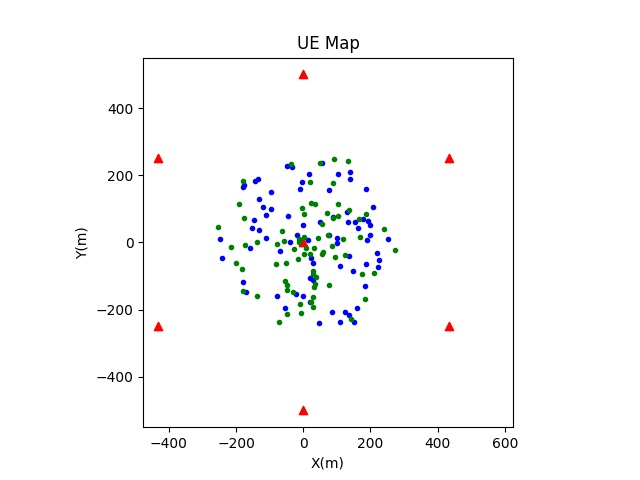
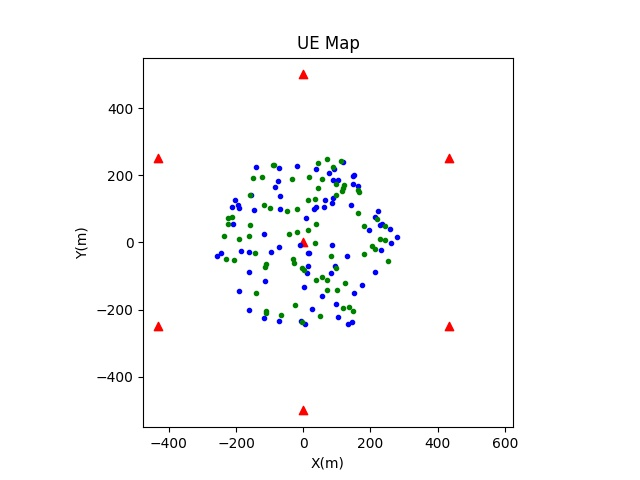
add prob2

Changed region(s): [[0.3125, 0.3125, 0.625, 0.6875]]

diff --git a/src/hw5/prob2.py b/src/hw5/prob2.py
@@ -1,6 +1,6 @@
 import matplotlib.pyplot as plt
 from random import randint, uniform
-from math import sqrt, log10, log2
+from math import sqrt, log10, log2, pi, cos, sin
 from numpy import random
 
 
@@ -20,6 +20,8 @@ NEG_SQRT_3 = (-1) * sqrt(3)
 NEG_SQRT_3_div_2 = (-1) * (sqrt(3) / 2)
 UE_NUM = 75
 SCALE = 250 / SQRT_3_div_2
+PAIR_DIS = 200
+
 
 BS_BUFFER_SIZE = 15E6
 UE_BUFFER_SIZE = 0.5E6
@@ -108,9 +110,7 @@ class Bs():
         for i in range(UE_NUM):
             ue = Ue(self)
             self._ue.append(ue)
-            ue2 = Ue(self, 1, ue)
-            while sqrt((ue.x - ue2.x) ** 2 + (ue.y - ue2.y) ** 2) > 200:
-                ue2 = Ue(self, 1, ue) #add Tx pair
+            ue2 = Ue(self, 1, ue, ue.x, ue.y)
             self._ue.append(ue2)
             ue.set_pair(ue2)
 
@@ -123,8 +123,12 @@ class Bs():
 
 
 class Ue():
-    def __init__(self, bs, is_recv=0, pair=None):
-        self._x, self._y = gen_loc()
+    def __init__(self, bs, is_recv=0, pair=None, gen_x=None, gen_y=None):
+        if gen_x is None or gen_y is None:
+            self._x, self._y = gen_loc()
+        else:
+            self._x, self._y = gen_loc_with_initial(gen_x, gen_y)
+        self._dis = sqrt(self._x ** 2 + self._y ** 2)
         self._x += bs.x
         self._y += bs.y
         self._bs = bs
@@ -177,6 +181,19 @@ def gen_loc():
            (NEG_SQRT_3 * x + y >= NEG_SQRT_3):
             return x * SCALE, y * SCALE
 
+def gen_loc_with_initial(gen_x, gen_y):
+    while True:
+        theta = uniform(0, 2 * pi)
+        dis = uniform(0, PAIR_DIS)
+        x = gen_x/SCALE + dis/SCALE * cos(theta)
+        y = gen_y/SCALE + dis/SCALE * sin(theta)
+        if (y <= SQRT_3_div_2) and \
+           (y >= NEG_SQRT_3_div_2) and \
+           (SQRT_3 * x + y <= SQRT_3) and \
+           (SQRT_3 * x + y >= NEG_SQRT_3) and \
+           (NEG_SQRT_3 * x + y <= SQRT_3) and \
+           (NEG_SQRT_3 * x + y >= NEG_SQRT_3):
+            return x * SCALE, y * SCALE
 
 def db_to_int(n):
     return 10 ** (n / 10)
@@ -216,16 +233,17 @@ if __name__ == "__main__":
     clus = Cluster(0, 0, ma)
     cent_bs = clus.bs[0]
     cent_bs.gen_ue()
-    d2d_p = 0
     for ue in cent_bs.ue:
         if ue._is_recv == 1:
-            dis = sqrt((ue.x - ue._pair.x)**2+(ue.y - ue._pair.y)**2)
-            d2d_p += db_to_int(up_rxp_d2d(dis))
-    for ue in cent_bs.ue:
-        dis = sqrt((ue.x-ue._pair.x)**2+(ue.y-ue._pair.y)**2)
-        up_p = up_rxp_d2d(dis)
-        ue._d2d_rate = shannon((Sinr(up_p, d2d_p - db_to_int(up_p))))
-        print(ue._d2d_rate)
+            d2d_p = 0
+            for tx_ue in cent_bs.ue:
+                if tx_ue._is_recv == 0:
+                    dis = sqrt((ue.x - tx_ue.x) ** 2 + (ue.y - tx_ue.y) ** 2)
+                    d2d_p += db_to_int(up_rxp_d2d(dis))
+            dis = sqrt((ue.x - ue._pair.x) ** 2 + (ue.y - ue._pair.y) ** 2)
+            up_p = up_rxp_d2d(dis)
+            ue._d2d_rate = shannon((Sinr(up_p, d2d_p - db_to_int(up_p))))
+            ue._pair._d2d_rate = shannon((Sinr(up_p, d2d_p - db_to_int(up_p))))
     # Calculate rate for downlink and uplink
 
     for ue in cent_bs.ue:
@@ -243,7 +261,8 @@ if __name__ == "__main__":
             ue.rate = shan
 
 
-
+    prob = []
+    load = ['100k', '300k', '500k', '700k', '900k', '1.1M', '1.3M', '1.5M', '1.7M', '1.9M']
     for rate in range(100000, 2000000, 200000):
         loss_data = 0
         total_data = 0
@@ -261,22 +280,26 @@ if __name__ == "__main__":
                         ue._pair._tx_buffer = ready_data
                     else:
                         ue._pair._tx_buffer = ue.rate
-
-            # BS bit loss
             for ue in cent_bs.ue:
                 if ue._is_recv == 1:
                     ue.set_tx_buffer(max(ue._tx_buffer - ue.rate, 0))
             current = cent_bs.cal_tx_buffer()
-            # print(current)
             current_loss_data = current - BS_BUFFER_SIZE
             if current_loss_data > 0:
                 loss_data += current_loss_data
                 for ue in cent_bs.ue:
                     if ue._is_recv == 1:
                         ue.set_tx_buffer(ue._tx_buffer * BS_BUFFER_SIZE / current)
-        # print(loss_data, total_data)
+        prob.append(loss_data / total_data)
+    plt.bar(load, prob)
+    plt.title('Loss Probability')
+    plt.xlabel('Load')
+    plt.ylabel('Loss Probability')
+    plt.ylim([0, 1])
+    plt.savefig('fig2_1.jpg')
+    plt.close()
 
-
+    prob = []
     for ue in cent_bs.ue:
         ue.set_buffer(0)
     for rate in range(100000, 2000000, 200000):
@@ -292,4 +315,11 @@ if __name__ == "__main__":
                     if ue._buffer > UE_BUFFER_SIZE:
                         loss_data += ue._buffer - UE_BUFFER_SIZE
                         ue.set_buffer(UE_BUFFER_SIZE)
-        print(loss_data/total_data)
+        prob.append(loss_data / total_data)
+    plt.bar(load, prob)
+    plt.title('Loss Probability')
+    plt.xlabel('Load')
+    plt.ylabel('Loss Probability')
+    plt.ylim([0, 1])
+    plt.savefig('fig2_2.jpg')
+    plt.close()

diff --git a/src/hw5/prob1.py b/src/hw5/prob1.py
@@ -46,6 +46,7 @@ class Cluster():
         self._bs.append(Bs(250 * NEG_SQRT_3 + loc_x, -250 + loc_y, self))
         self._bs.append(Bs(250 * SQRT_3 + loc_x, 250 + loc_y, self))
         self._bs.append(Bs(250 * SQRT_3 + loc_x, -250 + loc_y, self))
+
     @property
     def bs(self):
         return self._bs
@@ -138,6 +139,7 @@ class Ue():
     def bs(self):
         return self._bs
 
+
 def gen_loc():
     while True:
         x = uniform(-1, 1)
@@ -154,8 +156,9 @@ def gen_loc():
 def gen_loc_with_initial(gen_x, gen_y):
     while True:
         theta = uniform(0, 2 * pi)
-        x = gen_x/SCALE + PAIR_DIS/SCALE * cos(theta)
-        y = gen_y/SCALE + PAIR_DIS/SCALE * sin(theta)
+        dis = uniform(0, PAIR_DIS)
+        x = gen_x / SCALE + dis / SCALE * cos(theta)
+        y = gen_y / SCALE + dis / SCALE * sin(theta)
         if (y <= SQRT_3_div_2) and \
            (y >= NEG_SQRT_3_div_2) and \
            (SQRT_3 * x + y <= SQRT_3) and \
@@ -164,8 +167,10 @@ def gen_loc_with_initial(gen_x, gen_y):
            (NEG_SQRT_3 * x + y >= NEG_SQRT_3):
             return x * SCALE, y * SCALE
 
+
 def db_to_int(n):
     return 10 ** (n / 10)
+
 
 def down_rxp(dis):
     g = (B_H * UE_H) ** 2 / (dis ** EX)
@@ -173,17 +178,20 @@ def down_rxp(dis):
     rx_p = g_db + BASE_P + TX_G + RX_G
     return rx_p
 
+
 def up_rxp(dis):
     g = (B_H * UE_H) ** 2 / (dis ** EX)
     g_db = 10 * log10(g)
     rx_p = g_db + UE_P + TX_G + RX_G
     return rx_p
 
+
 def up_rxp_d2d(dis):
     g = (UE_H * UE_H) ** 2 / (dis ** EX)
     g_db = 10 * log10(g)
     rx_p = g_db + UE_P + TX_G + RX_G
     return rx_p
+
 
 def Sinr(power_db, inf):
     noise = BOLTZ_CONST * TEMP * BW / UE_NUM
@@ -249,18 +257,17 @@ if __name__ == "__main__":
     print('problem 1-3')
 
     ################1-4################
-
-    d2d_p = 0
-    for ue in cent_bs.ue:
-        if ue._recv == 1:
-            dis = sqrt((ue.x - ue._tx.x)**2+(ue.y - ue._tx.y)**2)
-            d2d_p += db_to_int(up_rxp_d2d(dis))
     sinr_lst = []
     count_lst = []
     count = 0
     for ue in cent_bs.ue:
         if ue._recv == 1:
-            dis = sqrt((ue.x-ue._tx.x)**2+(ue.y-ue._tx.y)**2)
+            d2d_p = 0
+            for tx_ue in cent_bs.ue:
+                if tx_ue._recv == 0:
+                    dis = sqrt((ue.x - tx_ue.x) ** 2 + (ue.y - tx_ue.y) ** 2)
+                    d2d_p += db_to_int(up_rxp_d2d(dis))
+            dis = sqrt((ue.x - ue._tx.x) ** 2 + (ue.y - ue._tx.y) ** 2)
             up_p = up_rxp_d2d(dis)
             sinr_lst.append(Sinr(up_p, d2d_p - db_to_int(up_p)))
             count_lst.append(count)
@@ -290,16 +297,16 @@ if __name__ == "__main__":
         clus = Cluster(0, 0, ma)
         cent_bs = clus.bs[0]
         cent_bs.gen_ue()
-        d2d_p = 0
-        for ue in cent_bs.ue:
-            if ue._recv == 1:
-                dis = sqrt((ue.x - ue._tx.x) ** 2 + (ue.y - ue._tx.y) ** 2)
-                d2d_p += db_to_int(up_rxp_d2d(dis))
         sinr_lst = []
         count_lst = []
         count = 0
         for ue in cent_bs.ue:
             if ue._recv == 1:
+                d2d_p = 0
+                for tx_ue in cent_bs.ue:
+                    if tx_ue._recv == 0:
+                        dis = sqrt((ue.x - tx_ue.x) ** 2 + (ue.y - tx_ue.y) ** 2)
+                        d2d_p += db_to_int(up_rxp_d2d(dis))
                 dis = sqrt((ue.x - ue._tx.x) ** 2 + (ue.y - ue._tx.y) ** 2)
                 up_p = up_rxp_d2d(dis)
                 sinr_lst.append(Sinr(up_p, (d2d_p - db_to_int(up_p))))
